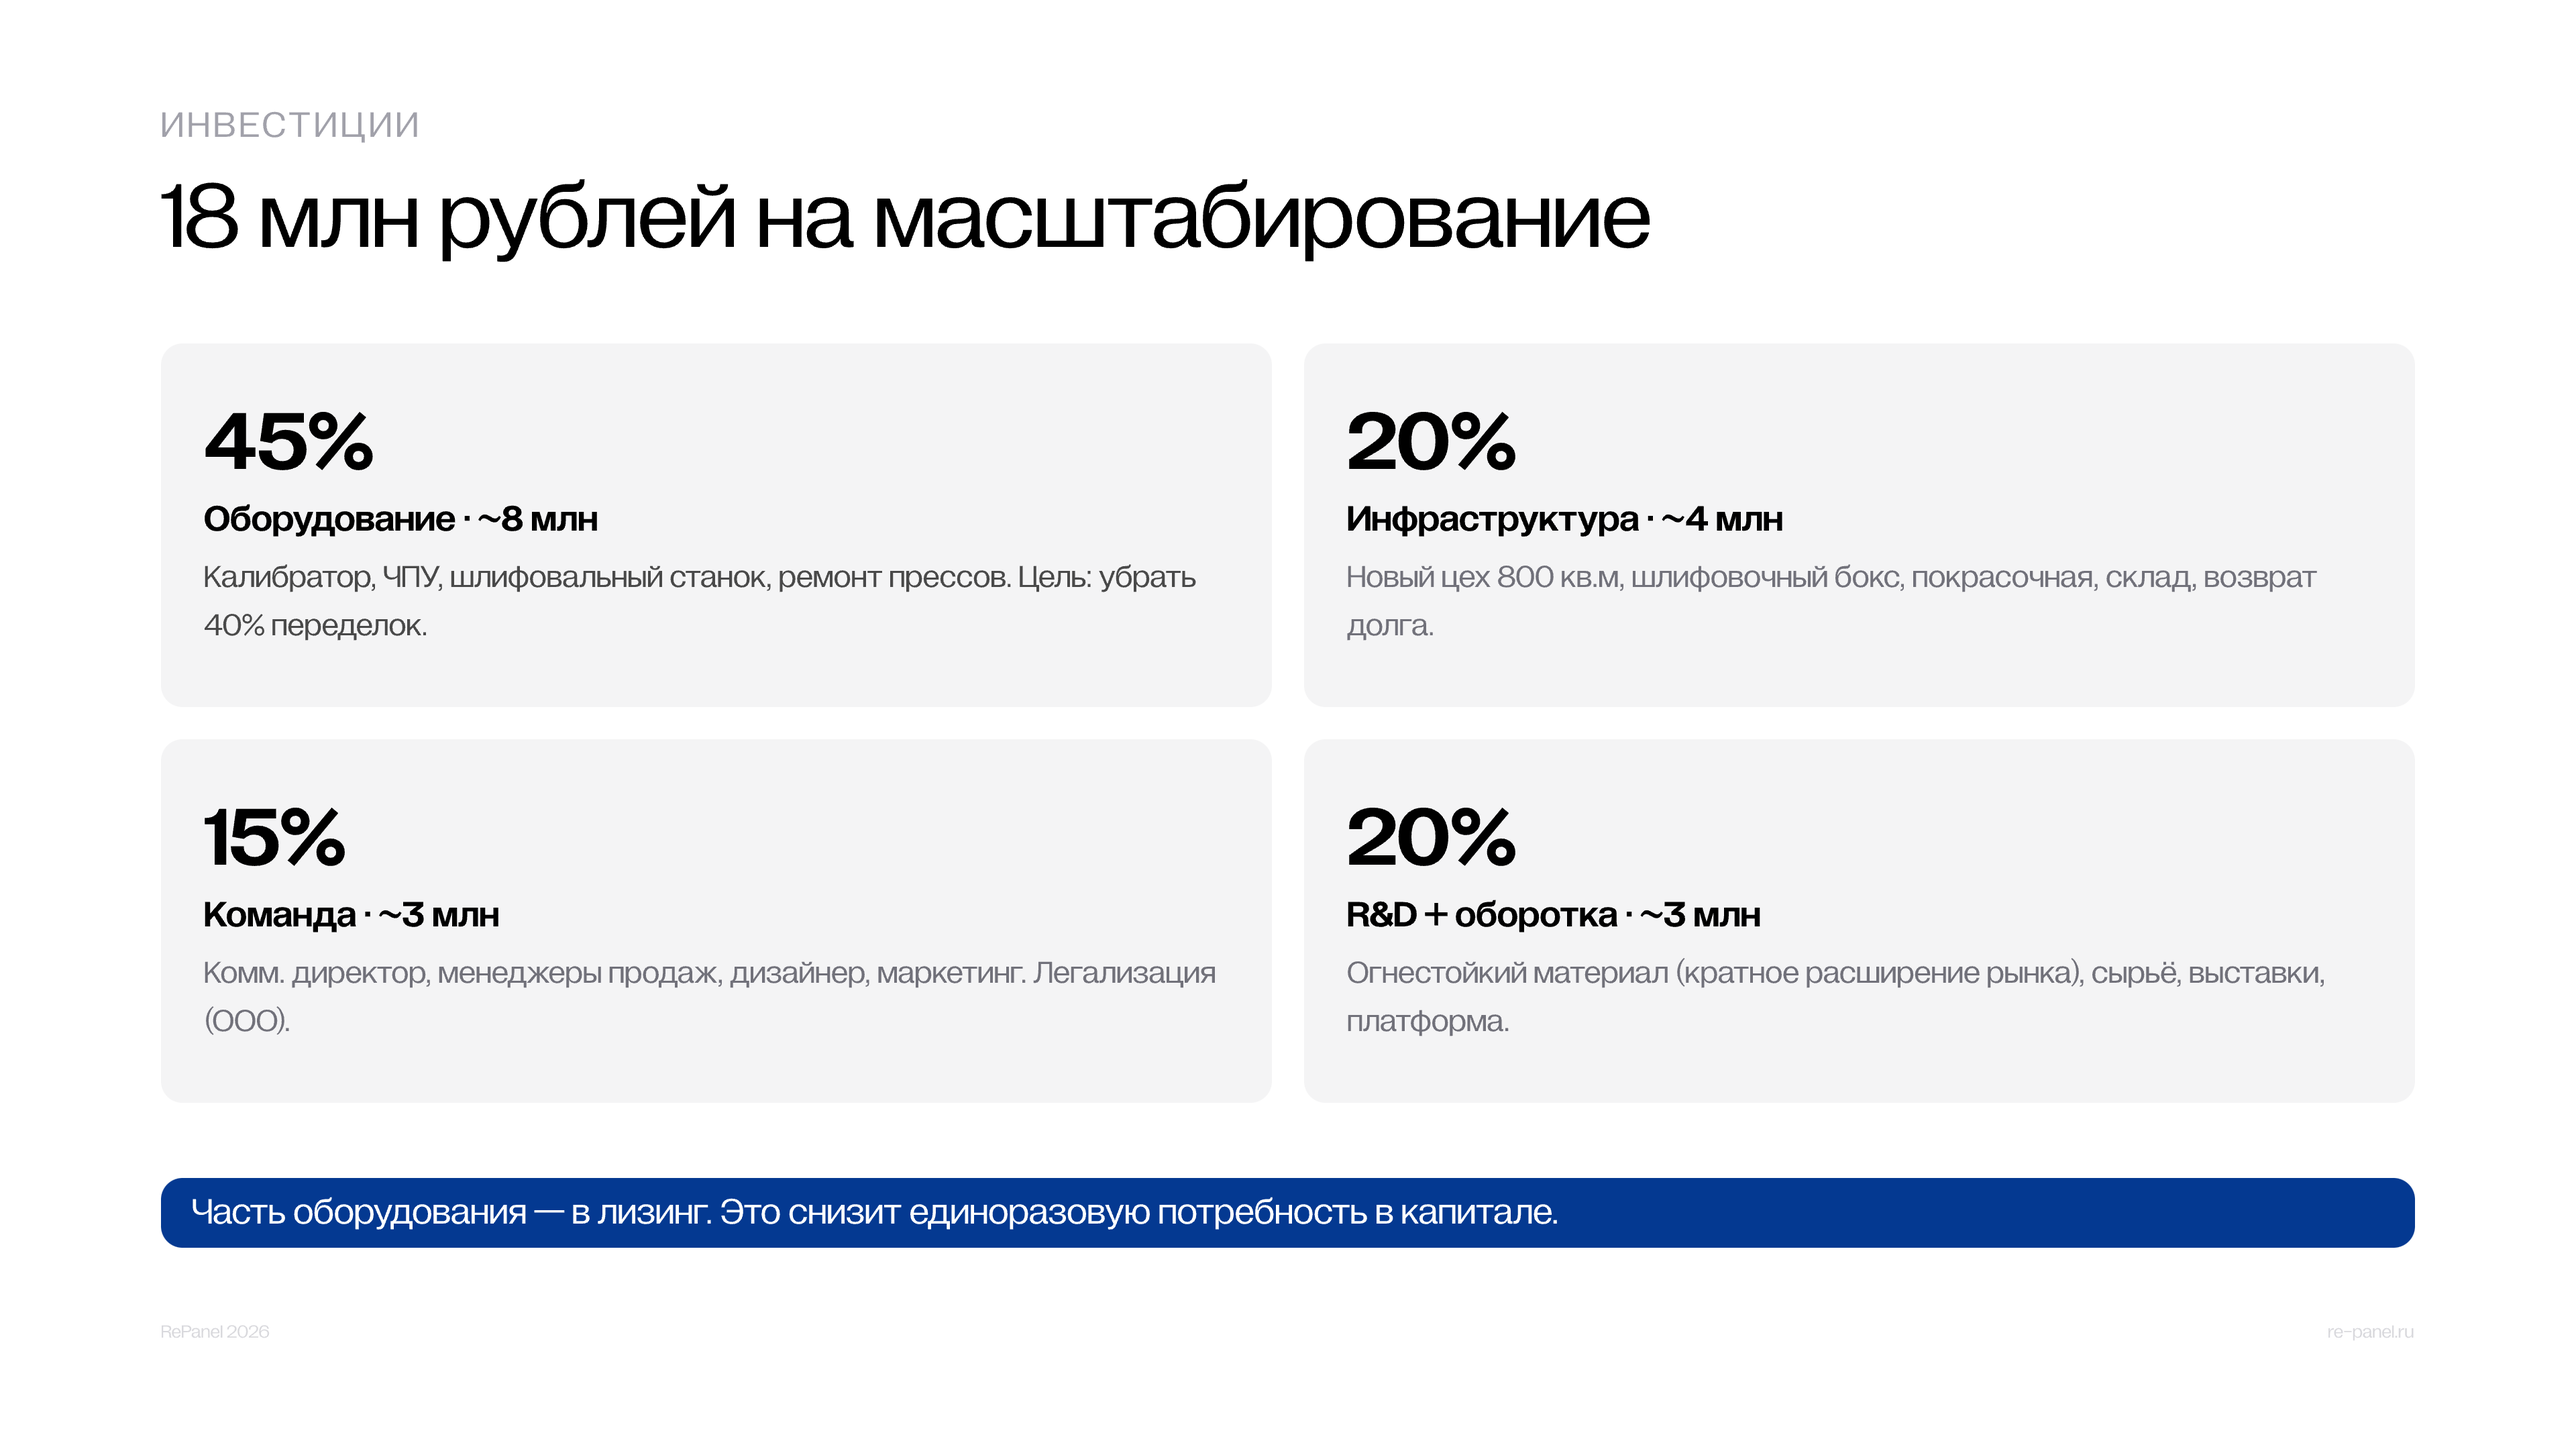
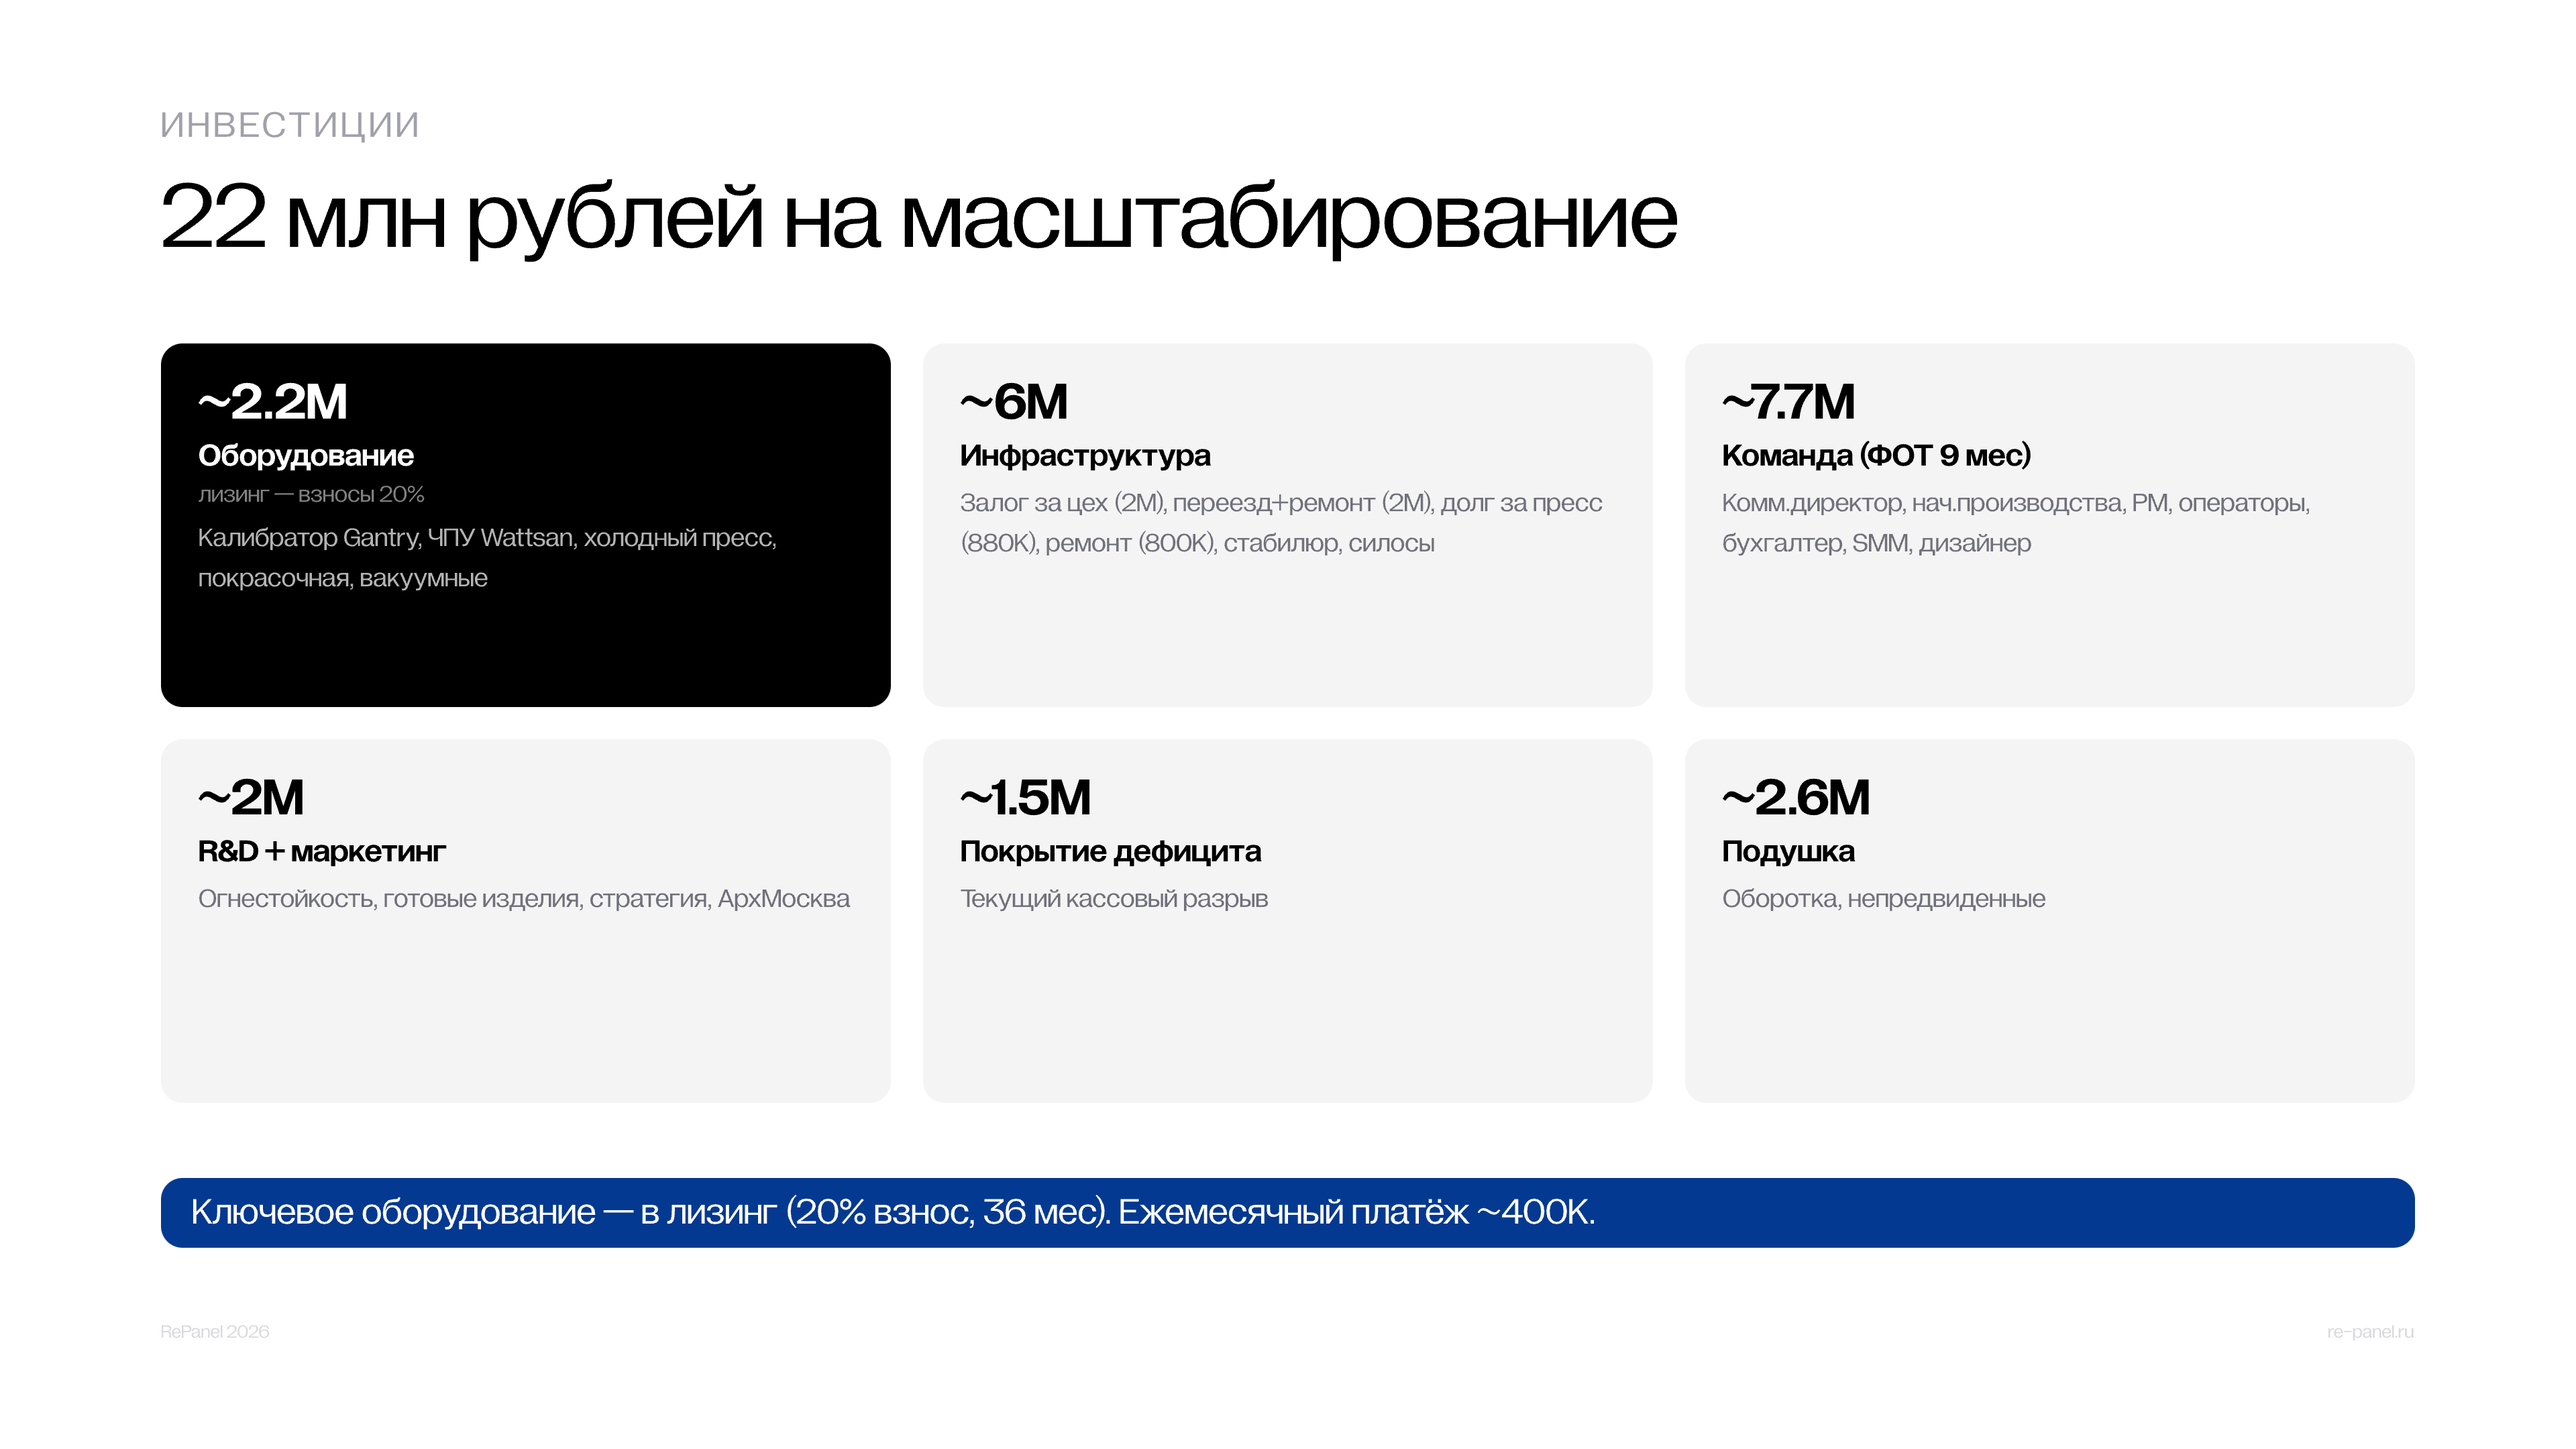
Update Инвестиции slide: 22M budget with 6 categories + cache bust

diff --git a/docs/index.html b/docs/index.html
@@ -73,7 +73,7 @@ slides.forEach((_, i) => {
   dotsEl.appendChild(d);
 });
 
-const v = '20260313b';
+const v = '20260320a';
 function render() {
   img.src = slides[current].src + '?v=' + v;
   counter.textContent = (current + 1) + ' / ' + slides.length;
